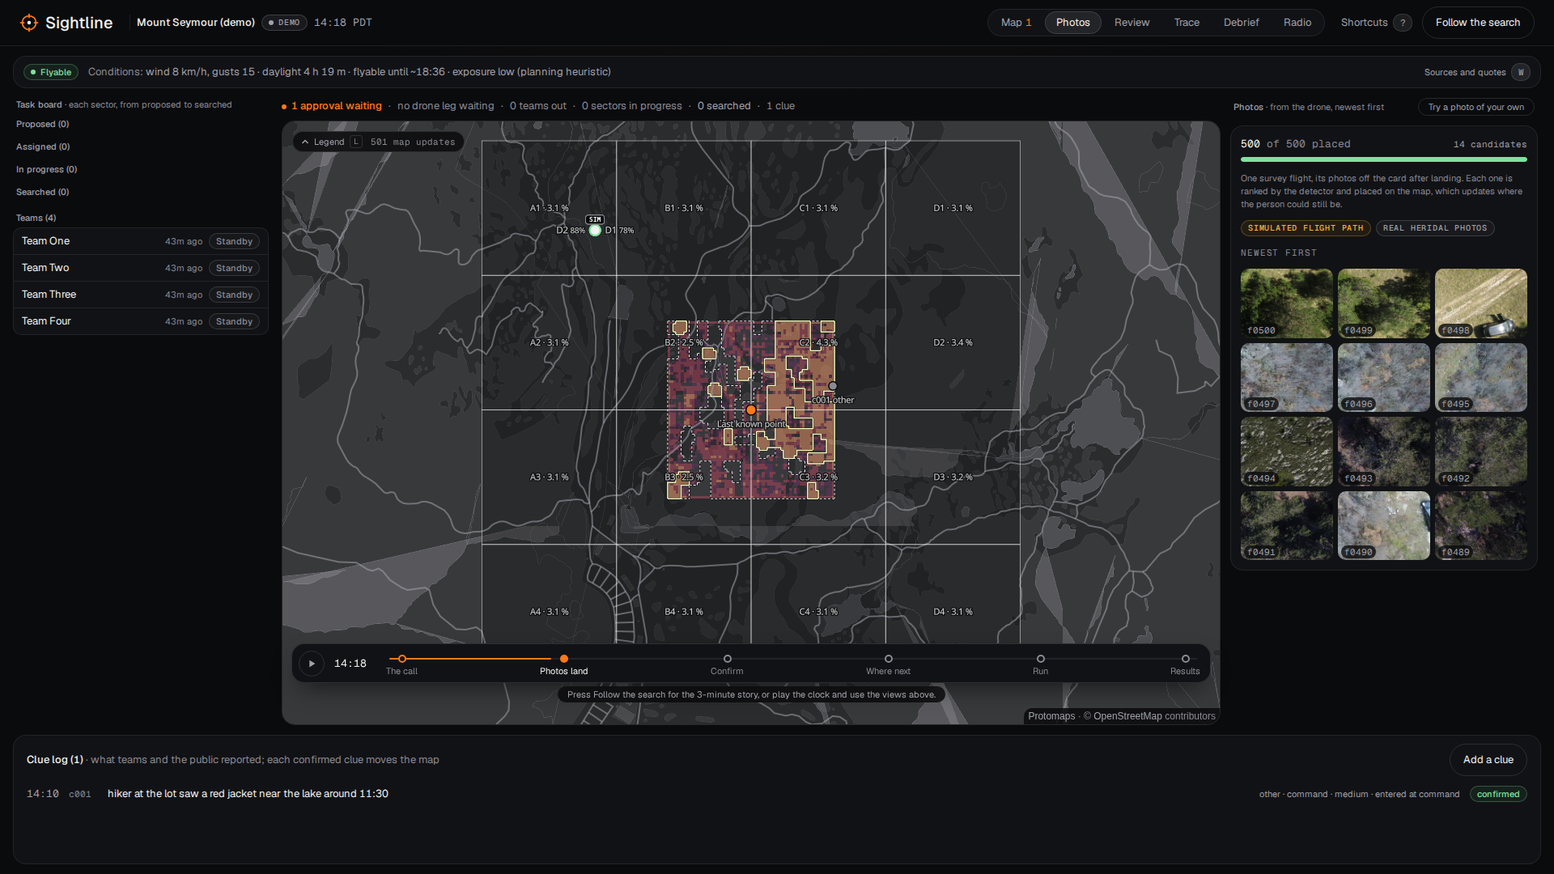
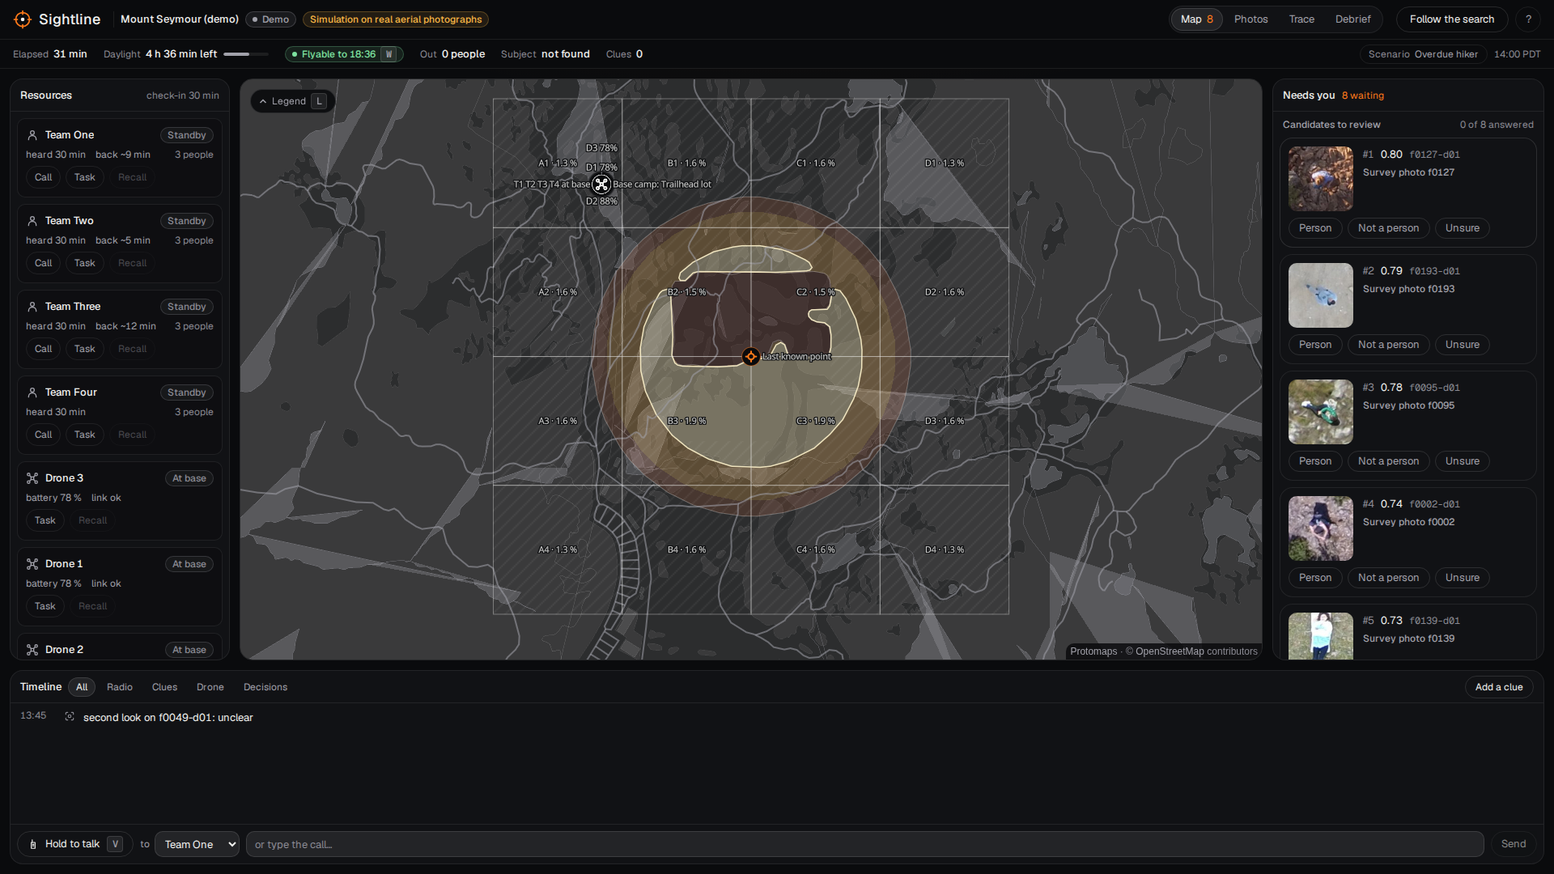
Gallery on the final site: retake t0, t1 mid-leg, t4 with lost link and relay, t6 after-action report; captions, timeline and render script follow

diff --git a/docs/submission/figures/render_gallery.py b/docs/submission/figures/render_gallery.py
@@ -1,7 +1,8 @@
 """Render the six Devpost gallery images (1920x1080 PNG) from the one-console site, each at its checkpoint.
 
-python render_gallery.py OUTDIR [SITE]   (a Python with playwright, Pillow and Chromium; SITE defaults to
-http://localhost:5191/, the dev server started as README.md here says)
+python render_gallery.py OUTDIR [SITE [NAME-PREFIX ...]]   (a Python with playwright, Pillow and Chromium; SITE defaults to
+http://localhost:5191/, the dev server started as README.md here says; t1 needs the dev server, it sets the
+story's clock through /src/command/story.ts)
 
 Each image opens its canonical address (no redirects), waits for the map, does its one step (Esc to put the
 coach mark away, a click, a key), lets the page settle 400 ms, and is saved with the cursor hidden. A PNG over
@@ -29,6 +30,20 @@ def esc(page: Page) -> None:
     page.keyboard.press("Escape")
 
 
+def t1_mid_leg(page: Page) -> None:
+    """The console 60 % into the clock's run into t1 (14:00 PDT): the photos still landing, the map lowering
+    under the first leg, Needs You filling. The story shows this on its way into t1; the clock is set from
+    the story's own store (the dev server serves it at /src/command/story.ts), with the coach marks off."""
+    esc(page)
+    page.evaluate(
+        """async () => {
+          const { useStory } = await import('/src/command/story.ts');
+          useStory.setState({ t: 1, progress: 0.6, playing: false, tour: false });
+        }"""
+    )
+    page.wait_for_timeout(2500)  # the map's frames and the queue catch up with the clock
+
+
 def t2_card(page: Page) -> None:
     esc(page)
     show = page.get_by_role("button", name="Show the second look's images").element_handle()
@@ -46,21 +61,40 @@ def trace_chain(page: Page) -> None:
 
 def t4_conditions(page: Page) -> None:
     esc(page)
+    # the Resources list down to the three drones (Drone 2's link lost, Drone 3 relaying), then W
+    page.evaluate(
+        """() => {
+          const r = document.querySelector('section[aria-label=Resources]');
+          const d2 = [...r.querySelectorAll('*')].find((e) => e.children.length === 0 && e.textContent.trim() === 'Drone 2');
+          let card = d2; while (card.parentElement && card.parentElement.getBoundingClientRect().height < 200) card = card.parentElement;
+          card.scrollIntoView({ block: 'end' });
+        }"""
+    )
     page.keyboard.press("w")
 
 
-def t5_debrief(page: Page) -> None:
+def t6_report(page: Page) -> None:
     esc(page)
-    # The three numbers and "What breaks first" don't fit one 1080 px screen with "How much looking it saves"
-    # between them, so that part is left out of this frame (it is in the app, between the two).
+    # The after-action report (the find, the areas searched at their POD) and "What breaks first" don't fit
+    # the 720 px panel with what is between them, so this frame leaves out the key events, the export
+    # buttons, the resources line, the measured results above "What breaks first" and its one-line intro
+    # (all in the app, between the two).
     page.evaluate(
         """() => {
-          const h = [...document.querySelectorAll('section[aria-label=Debrief] h3')]
-            .find((e) => e.textContent.startsWith('How much looking'));
-          if (h) h.closest('section').style.display = 'none';
-          const glance = [...document.querySelectorAll('section[aria-label=Debrief] h3')]
-            .find((e) => e.textContent.startsWith('At a glance'));
-          glance.nextElementSibling.scrollIntoView({ block: 'start' });  // "The three numbers that matter…"
+          const d = document.querySelector('section[aria-label=Debrief]');
+          for (const name of ['Key events', 'Resources and traffic']) {
+            const s = d.querySelector(`section[aria-label="${name}"]`);
+            if (s) s.style.display = 'none';
+          }
+          const measured = [...d.querySelectorAll('h2')].find((e) => e.textContent.startsWith('The detector and the map'));
+          if (measured) measured.style.display = 'none';
+          const results = d.querySelector('section[aria-label=Results]');
+          const breaks = [...results.querySelectorAll('h3')].find((e) => e.textContent.startsWith('What breaks first'));
+          for (const c of results.children) if (!c.contains(breaks)) c.style.display = 'none';
+          if (breaks.nextElementSibling?.tagName === 'P') breaks.nextElementSibling.style.display = 'none';
+          const print = [...d.querySelectorAll('button')].find((e) => e.textContent.trim() === 'Print');
+          if (print) print.parentElement.style.display = 'none';  // Report, the team, ICS 204/214/309, CalTopo, Print
+          d.scrollIntoView({ block: 'start' });
         }"""
     )
 
@@ -68,12 +102,13 @@ def t5_debrief(page: Page) -> None:
 # (file, address, step after load)
 JOBS = [
     ("console-t0-the-call-pitch-bar.png", "#m/demo?t=0", None),
-    ("photos-land-t1-each-photo-ranked-and-placed.png", "#m/demo?t=1", esc),
+    ("photos-land-t1-each-photo-ranked-and-placed.png", "#m/demo?t=1", t1_mid_leg),
     ("second-look-t2-a-017-candidate-this-flight-opencv5-zoom-nemotron-vl.png", "#m/demo?t=2", t2_card),
     ("trace-which-model-did-what-second-look.png", "#m/demo/trace?t=2", trace_chain),
     ("run-t4-fleet-flying-b4-pod-60-conditions.png", "#m/demo?t=4", t4_conditions),
-    ("debrief-t5-three-numbers-what-breaks-first.png", "#m/demo?t=5", t5_debrief),
+    ("debrief-t6-after-action-report-what-breaks-first.png", "#m/demo?t=6", t6_report),
 ]
+ONLY = sys.argv[3:]  # optional: render only the files whose names start with these
 
 
 def squeeze(path: Path) -> None:
@@ -88,6 +123,8 @@ def squeeze(path: Path) -> None:
 with sync_playwright() as p:
     browser = p.chromium.launch()
     for name, address, step in JOBS:
+        if ONLY and not any(name.startswith(o) for o in ONLY):
+            continue
         ctx = browser.new_context(viewport={"width": 1920, "height": 1080}, device_scale_factor=1)
         page = ctx.new_page()
         page.goto(SITE + address)

diff --git a/docs/submission/DEVPOST_OPENCV.md b/docs/submission/DEVPOST_OPENCV.md
@@ -5,7 +5,7 @@
 **Repo:** https://github.com/Drivera0/sightline (tag `opencv-submit`, created at submission)
 **Report:** `docs/report/OPENCV_REPORT.md` · **Agentic Vision evidence:** `docs/architecture/agent.md`
 **Demo:** https://sightline-iota-sandy.vercel.app (opens the console on a demo mission at t0, no server needed; `#m/demo/map` is the console at the end of its timeline)
-**Where to look, in order:** the console at t0 (`#`) → **Follow the search** (3 min, `#m/demo?t=0` to `?t=5`) → the Trace view (`#m/demo/trace`) → Conditions, W in the console (`#m/demo/map/conditions`) → the Debrief: results, what breaks first and the links out (`#m/demo?t=5`; the old `#judges` redirects to its list for judges) → the About sheet for the method (`#about`)
+**Where to look, in order:** the console at t0 (`#`) → **Follow the search** (3 min, `#m/demo?t=0` to `?t=6`) → the Trace view (`#m/demo/trace`) → Conditions, W in the console (`#m/demo/map/conditions`) → the Debrief: results, what breaks first and the links out (`#m/demo?t=6`; the old `#judges` redirects to its list for judges) → the About sheet for the method (`#about`)
 **Live API (AWS):** https://44-227-39-234.sslip.io (stopped between demos to save cost)
 **Video:** <to add>
 
@@ -14,7 +14,7 @@ Video outline for Dan (≤ 5:00; from .documents/WIN_RESEARCH.md §8, OpenCV vid
 0:00–0:12 Dan on camera, lower-third, one line: "A missing hiker, 400 hectares, two hours of light. Sightline turns 500 drone photos into a ranked search plan." Logo card 1 s.
 0:12–0:30 The console at t0 → Follow the search: map with search area and drone track. Burned-in checkpoint labels throughout.
 0:30–1:05 Upload → detection: photos tick in, detections with confidence, heat map filling. Split screen: photo + boxes | map.
-1:05–1:35 Re-look: a 0.18 candidate, OpenCV zoom_native/CLAHE, Nemotron VL verdict; Trace view visible (tool → model → result → proposal).
+1:05–1:35 Re-look: the 0.17 candidate from this flight (f0273-d02, two people on a forest trail), OpenCV zoom_native, Nemotron VL verdict; Trace view visible (tool → model → result → proposal).
 1:35–2:05 Approval: a real person approves in the inbox; the gate shown explicitly.
 2:05–2:40 Map re-task → assignment card → GPX opens in CalTopo.
 2:40–3:20 Radio desk: a real exchange with audio and transcript; team acknowledges; clue lands on the map.
@@ -27,12 +27,12 @@ Production: burn in captions; 1080p master; YouTube "Not for Kids"; no copyright
 
 **Gallery (in this order):**
 
-1. *The console on the demo mission at 20:35, the call (DEMO chip, simulated data): the pitch bar, the search area around the last known point on the probability map, four teams on standby, and the mission timeline along the map.* (`docs/submission/figures/console-t0-the-call-pitch-bar.png`)
-2. *21:18, photos land: one survey flight's 500 photos (real HERIDAL photos on a simulated flight path), each ranked by the detector and placed on the map as it lands; 14 candidates, and the map now says where the person could still be.* (`docs/submission/figures/photos-land-t1-each-photo-ranked-and-placed.png`)
+1. *The console on the demo mission at 13:35 PDT, the call (Demo and "Simulation on real aerial photographs" chips): the pitch bar, the status line (5 min elapsed, 5 h 02 min of daylight left, flyable to 18:36, nobody out, subject not found), the four team cards on standby, Koester's lost-hiker rings around the last known point on the probability map, base camp at the trailhead lot, and the timeline along the bottom.* (`docs/submission/figures/console-t0-the-call-pitch-bar.png`)
+2. *14:00 PDT, photos landing: partway through the survey flight (real HERIDAL photos on a simulated flight path), each photo is ranked by the detector as it lands (re-detected on OpenCV 5 `cv2.dnn`, the same boxes and scores), the map lowers where the first leg has looked, and Needs You fills with the first 8 candidates for a person to confirm.* (`docs/submission/figures/photos-land-t1-each-photo-ranked-and-placed.png`)
 3. *21:31, confirm: a person answers every candidate. The third, from this flight's photo f0273, scored only 0.17, below the 0.29 review threshold; the agent promoted it after a second look: an OpenCV 5 native-resolution zoom, and Nemotron VL's verdict "likely a person, standing, 2 people". Marking it Person pins a sighting on the map. The zoom is open on the card (the model's live answer, kept word for word).* (`docs/submission/figures/second-look-t2-a-017-candidate-this-flight-opencv5-zoom-nemotron-vl.png`)
 4. *The Trace view on that chain: the 0.173 detection f0273-d02, the OpenCV 5 `zoom_native` tool, the crop and the zoom Nemotron VL answered "person: yes, standing, 2" from (its live answer, replayed word for word in the demo's own trace), then the proposal, waiting for a person.* (`docs/submission/figures/trace-which-model-did-what-second-look.png`)
-5. *22:00, the run: two simulated drones fly their legs, two teams are searching, B4 is searched at POD 60 % (lowered, never ruled out) and C4 at POD 40 %. The Conditions panel (W) shows a recorded live lookup: each value with its quote and page, and the flyability gate.* (`docs/submission/figures/run-t4-fleet-flying-b4-pod-60-conditions.png`)
-6. *The Debrief: the three numbers (people found 90 % vs 68 % by eye, SAR-APD scoring; 0.25 s vs 33 s per full photo; ground to search, 3.0 ha vs 4.4 ha for a naive map, simulated, the best of three seeds) and what breaks first, in the report's words. The `cv2.dnn` vs PyTorch parity and the other numbers are in the report's tables (§3.1, §3.9).* (`docs/submission/figures/debrief-t5-three-numbers-what-breaks-first.png`)
+5. *14:58 PDT, the run: three simulated drones fly their legs, Drone 2 has lost its link (it flies its approved leg on its own and keeps its photos on board) and Drone 3's degraded link relays Team Two, who has no signal; Teams One and Two are searching C2 and B2, and B4 is searched at POD 60 %, its probability lowered by that. The Conditions panel (W) is open: the flyability gate (flyable until about 18:36 PDT, gust limit 43 km/h for Drone 1), the demo's own conditions, and another evening's recorded live lookup folded below with each value's quote and page.* (`docs/submission/figures/run-t4-fleet-flying-b4-pod-60-conditions.png`)
+6. *15:00 PDT, the Debrief after the find: the after-action report (found by Team One in C2 at 14:59, where found, the areas searched at their POD: B4 60 %, C4 40 %) and what breaks first, in the report's words, with the radio exchange that reported the find in the timeline. The key events, the exports and the measured results sit between the two in the app and are left out of this frame; the `cv2.dnn` vs PyTorch parity and the other numbers are in the report's tables (§3.1, §3.9).* (`docs/submission/figures/debrief-t6-after-action-report-what-breaks-first.png`)
 
 ---
 

diff --git a/docs/submission/DEVPOST_NEBIUS.md b/docs/submission/DEVPOST_NEBIUS.md
@@ -5,7 +5,7 @@
 **Track:** Physical AI
 **Repo:** https://github.com/Drivera0/sightline (AGPL-3.0, tag `nebius-submit`, created at submission)
 **Demo:** https://sightline-iota-sandy.vercel.app (opens the console on a demo mission at t0, no server needed; `#m/demo/map` is the console at the end of its timeline)
-**Where to look, in order:** the console at t0 (`#`) → **Follow the search** (3 min, `#m/demo?t=0` to `?t=5`) → the Trace view (`#m/demo/trace`) → Conditions, W in the console (`#m/demo/map/conditions`) → the Debrief: results, what breaks first and the links out (`#m/demo?t=5`; the old `#judges` redirects to its list for judges) → the About sheet for the method (`#about`)
+**Where to look, in order:** the console at t0 (`#`) → **Follow the search** (3 min, `#m/demo?t=0` to `?t=6`) → the Trace view (`#m/demo/trace`) → Conditions, W in the console (`#m/demo/map/conditions`) → the Debrief: results, what breaks first and the links out (`#m/demo?t=6`; the old `#judges` redirects to its list for judges) → the About sheet for the method (`#about`)
 **Video:** <to add>
 
 <!--
@@ -23,12 +23,12 @@ Production: burn in captions; name Nebius and NVIDIA with audio; mark "Not for K
 
 **Gallery (in this order):**
 
-1. *The console on the demo mission at 20:35, the call (DEMO chip, simulated data): the pitch bar, the search area around the last known point on the probability map, four teams on standby, and the mission timeline along the map.* (`docs/submission/figures/console-t0-the-call-pitch-bar.png`)
-2. *21:18, photos land: one survey flight's 500 photos (real HERIDAL photos on a simulated flight path), each ranked by the detector and placed on the probability map as it lands; 14 candidates for a person to confirm.* (`docs/submission/figures/photos-land-t1-each-photo-ranked-and-placed.png`)
+1. *The console on the demo mission at 13:35 PDT, the call (Demo and "Simulation on real aerial photographs" chips): the pitch bar, the status line (5 min elapsed, 5 h 02 min of daylight left, flyable to 18:36, nobody out, subject not found), the four team cards on standby, Koester's lost-hiker rings around the last known point on the probability map, base camp at the trailhead lot, and the timeline along the bottom.* (`docs/submission/figures/console-t0-the-call-pitch-bar.png`)
+2. *14:00 PDT, photos landing: partway through the survey flight (real HERIDAL photos on a simulated flight path), each photo is ranked by the detector and placed on the probability map as it lands, the map lowers where the first leg has looked, and Needs You fills with the first 8 candidates for a person to confirm.* (`docs/submission/figures/photos-land-t1-each-photo-ranked-and-placed.png`)
 3. *21:31, confirm: a person answers every candidate. The third, from this flight's photo f0273, scored only 0.17, below the review threshold; Nemotron 3.5 Super VL on Token Factory looked again at an OpenCV zoom and answered "likely a person, standing, 2 people", so the agent promoted it, and marking it Person pins a sighting on the map. The zoom is open on the card (the model's live answer, kept word for word).* (`docs/submission/figures/second-look-t2-a-017-candidate-this-flight-opencv5-zoom-nemotron-vl.png`)
 4. *Which NVIDIA model did what: the Trace view's model strip (Nemotron 3.5 Super VL for the second look, Nemotron 3 Nano for the conditions pages) and that chain step by step: the crop and the native zoom Nemotron VL answered from, its verdict (the live answer, replayed word for word in the demo's own trace), and the proposal waiting for a person.* (`docs/submission/figures/trace-which-model-did-what-second-look.png`)
-5. *22:00, the run: two simulated drones fly their legs, two teams are searching, B4 is searched at POD 60 % (lowered, never ruled out). The Conditions panel (W) shows a recorded live lookup: Tavily searched and extracted the pages, Nemotron 3 Nano read them, each value carries its quote and page, and the flyability gate says not flyable after civil twilight.* (`docs/submission/figures/run-t4-fleet-flying-b4-pod-60-conditions.png`)
-6. *The Debrief: the three numbers (people found 90 % vs 68 % by eye; 0.25 s vs 33 s per full photo; ground to search, 3.0 ha vs 4.4 ha for a naive map, simulated, the best of three seeds) and what breaks first. The fleet simulation and radio latency numbers are in the report's tables.* (`docs/submission/figures/debrief-t5-three-numbers-what-breaks-first.png`)
+5. *14:58 PDT, the run: three simulated drones fly their legs, Drone 2 has lost its link (it flies its approved leg on its own and keeps its photos on board) and Drone 3's degraded link relays Team Two, who has no signal; Teams One and Two are searching C2 and B2, and B4 is searched at POD 60 %, its probability lowered by that. The Conditions panel (W) is open: the flyability gate (flyable until about 18:36 PDT, gust limit 43 km/h for Drone 1) on the demo's own conditions, and another evening's recorded live lookup folded below it (Tavily searched and extracted the pages, Nemotron 3 Nano on Token Factory read them, each value with its quote and page).* (`docs/submission/figures/run-t4-fleet-flying-b4-pod-60-conditions.png`)
+6. *15:00 PDT, the Debrief after the find: the after-action report (found by Team One in C2 at 14:59, where found, the areas searched at their POD: B4 60 %, C4 40 %) and what breaks first, in the report's words, with the radio exchange that reported the find in the timeline. Its second line is the Nemotron VL second look's measured gain. The key events, the exports and the measured results sit between the two in the app and are left out of this frame; the fleet simulation and radio latency numbers are in the report's tables.* (`docs/submission/figures/debrief-t6-after-action-report-what-breaks-first.png`)
 
 ---
 

diff --git a/docs/submission/figures/README.md b/docs/submission/figures/README.md
@@ -1,18 +1,19 @@
 # Devpost gallery images
 
-1920×1080 PNGs (all under 1 MB). The captions are in the gallery lists of `../DEVPOST_OPENCV.md` (O1–O6) and
-`../DEVPOST_NEBIUS.md` (N1–N6), and they describe these files. Both galleries are the same six images, the demo
+1920×1080 PNGs (all under 1 MB), all six on the final site: the command post (#197), the map (#199), the story
+(#200) and the rings with the real second look (#201; images 3 and 4 were taken there). The captions are in the
+gallery lists of `../DEVPOST_OPENCV.md` (O1–O6) and `../DEVPOST_NEBIUS.md` (N1–N6), and they describe these files. Both galleries are the same six images, the demo
 mission's story on the one-console site; the captions differ in what they point at (OpenCV 5, or the NVIDIA
 models on Token Factory).
 
 | File | Devpost caption | Source (`render_gallery.py`) |
 |---|---|---|
-| `console-t0-the-call-pitch-bar.png` | O1, N1: the console at 13:35 PDT (20:35 UTC), the call, with the pitch bar | `#m/demo?t=0` (the landing; t0 has no coach mark) |
-| `photos-land-t1-each-photo-ranked-and-placed.png` | O2, N2: 14:18 PDT, the 500 photos land and are placed; 14 candidates | `#m/demo?t=1`, then Esc (the coach mark away; the Photos rail stays) |
+| `console-t0-the-call-pitch-bar.png` | O1, N1: the console at 13:35 PDT (20:35 UTC), the call: the pitch bar, the status line, the four team cards, Koester's rings around the last known point, base camp | `#m/demo?t=0` (the landing; t0 has no coach mark) |
+| `photos-land-t1-each-photo-ranked-and-placed.png` | O2, N2: 14:00 PDT, partway through the survey flight: the map lowering under the first leg, Needs You filling (8 candidates so far) | `#m/demo?t=1`, Esc, then the story's clock set 60 % into its run into t1 (`useStory`, from `/src/command/story.ts` on the dev server), with the coach marks off: what Follow the search shows on its way into t1 |
 | `second-look-t2-a-017-candidate-this-flight-opencv5-zoom-nemotron-vl.png` | O3, N3: 14:31 PDT, the 0.17 candidate from this flight (f0273-d02) with its OpenCV 5 and Nemotron VL chips, the zoom open | `#m/demo?t=2`, Esc, then "Show the second look's images" |
 | `trace-which-model-did-what-second-look.png` | O4, N4: the Trace view on that chain (f0273-d02 in the demo mission's own trace, the live answer replayed word for word), the model step open | `#m/demo/trace?t=2`, then the Model step opened |
-| `run-t4-fleet-flying-b4-pod-60-conditions.png` | O5, N5: 15:00 PDT, the fleet flying, B4 at POD 60 %, the Conditions panel open | `#m/demo?t=4`, Esc, then `W` |
-| `debrief-t5-three-numbers-what-breaks-first.png` | O6, N6: the Debrief's three numbers and what breaks first | `#m/demo?t=5`, Esc; "How much looking it saves" (between the two in the app) is left out of this frame so both fit |
+| `run-t4-fleet-flying-b4-pod-60-conditions.png` | O5, N5: 14:58 PDT, the fleet flying, Drone 2's link lost and Drone 3 relaying Team Two, B4 at POD 60 %, the Conditions panel open | `#m/demo?t=4`, Esc, the Resources list scrolled to the three drones, then `W` |
+| `debrief-t6-after-action-report-what-breaks-first.png` | O6, N6: 15:00 PDT, the after-action report after the find (found by Team One in C2 at 14:59, the areas searched at their POD) and what breaks first | `#m/demo?t=6` (it lands on `#m/demo/debrief`), Esc; the key events, the export buttons, the measured results and the one-line intro of "What breaks first" (between the two in the app) are left out of this frame so both fit |
 
 Extras, not in either gallery now (taken before the one console, #171):
 
@@ -49,7 +50,8 @@ cd web && VITE_CACHE_DIR=demo npx vite --port 5191 --strictPort &   # note the P
 python docs/submission/figures/render_gallery.py docs/submission/figures   # a Python with playwright, Pillow + Chromium
 ```
 
-Each frame waits for the map and 4 s more, does its one step, settles 400 ms and is saved with the cursor hidden;
+Each frame waits for the map and 4 s more, does its one step, settles 400 ms and is saved with the cursor hidden
+(`python render_gallery.py OUT SITE debrief` retakes only the files whose names start with `debrief`);
 a PNG over 1.5 MB is squeezed (pngquant if installed, else Pillow's 256-colour palette). Look at each one before
 committing it.
 

diff --git a/docs/05_FRONTEND_SHARED.md b/docs/05_FRONTEND_SHARED.md
@@ -118,7 +118,7 @@ Shared components D provides in `shell/`: `Panel`, `Stat` (big number + label + 
 
 ## 6. The five steps (BCS hackathon; details in each lane file §9)
 
-> **Now (PR #171):** the site is one console, not a guided flow. `#` opens the demo mission's console at t0; **Follow the search** runs it through the checkpoints `#m/demo?t=1..5` (Photos land, Confirm, Where next, Run, Results), and the views are Map · Photos · Review · Trace · Debrief. The old step hashes (`#survey`, `#rank`, `#review`, `#search`, `#results`) redirect to those checkpoints. Addresses: `web/src/shell/flow.ts` and `web/src/shell/README.md`. The table below is the BCS plan, kept as history.
+> **Now (PR #171):** the site is one console, not a guided flow. `#` opens the demo mission's console at t0; **Follow the search** runs it through the checkpoints `#m/demo?t=1..6` (Photos land, Confirm, Where next, Run, The find, Debrief), and the views are Map · Photos · Trace · Debrief (the review is in Needs You, the radio in the timeline's talk bar). The old step hashes (`#survey`, `#rank`, `#review`, `#search`, `#results`) redirect to those checkpoints. Addresses: `web/src/shell/flow.ts` and `web/src/shell/README.md`. The table below is the BCS plan, kept as history.
 
 At BCS the app was one guided flow with a step bar and the step in the URL hash; the hackathon plan's three tabs became these steps.
 

diff --git a/docs/report/OPENCV_REPORT.md b/docs/report/OPENCV_REPORT.md
@@ -55,8 +55,8 @@ approved briefing waits in the radio's outbound queue until the operator presses
 
 ![The console at t0](figures/one-console/t0-d.webp)
 
-*The landing (`#`): the console on the demo mission at t0, the call, with a two-line pitch and Follow the search; the
-DEMO chip and SIM labels say what is simulated, and the About sheet (`#about`) says who it is for and how photos get in.*
+*The landing (`#`): the console on the demo mission at t0, the call, with the pitch and Follow the search, Koester's rings
+around the last known point; the Demo and "Simulation on real aerial photographs" chips say what is simulated.*
 
 ![The console on a live mission](../architecture/screens/command-view.png)
 
